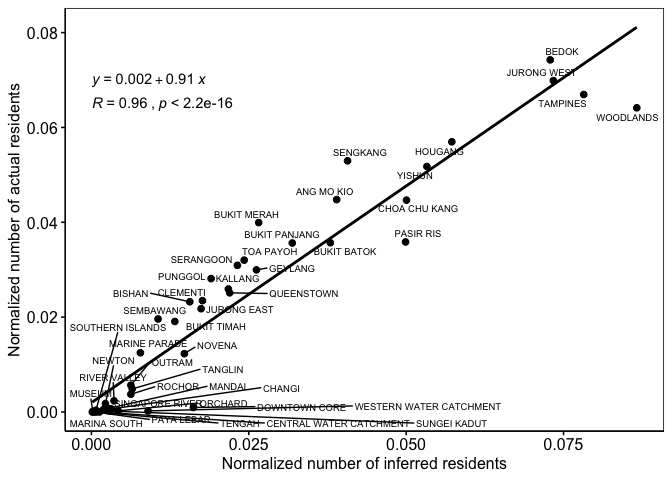
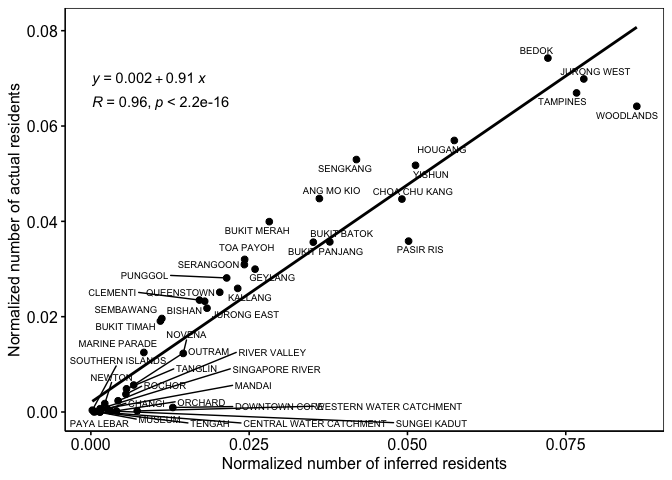
feat: update correlation figure

diff --git a/analysis/03-figures-correlation.md b/analysis/03-figures-correlation.md
@@ -18,10 +18,10 @@ grids <- st_read(here("analysis/data/derived_data/spatial_hex_grid.shp"), quiet 
   st_transform(crs = 3414)
 
 #load inferred home locations 
-hm_apdm <- read_csv(here("analysis/data/derived_data/hm_apdm.csv")) %>% mutate(name = "APDM")
-hm_freq <- read_csv(here("analysis/data/derived_data/hm_freq.csv")) %>% mutate(name = "FREQ")
-hm_hmlc <- read_csv(here("analysis/data/derived_data/hm_hmlc.csv")) %>% mutate(name = "HMLC")
-hm_osna <- read_csv(here("analysis/data/derived_data/hm_osna.csv")) %>% mutate(name = "OSNA")
+hm_apdm <- read_csv(here("analysis/data/derived_data/hm_apdm_updated.csv")) 
+hm_freq <- read_csv(here("analysis/data/derived_data/hm_freq_updated.csv"))
+hm_hmlc <- read_csv(here("analysis/data/derived_data/hm_hmlc_updated.csv")) 
+hm_osna <- read_csv(here("analysis/data/derived_data/hm_osna_updated.csv")) 
 hm_all <- bind_rows(hm_apdm, hm_freq, hm_hmlc, hm_osna)
 ```
 
